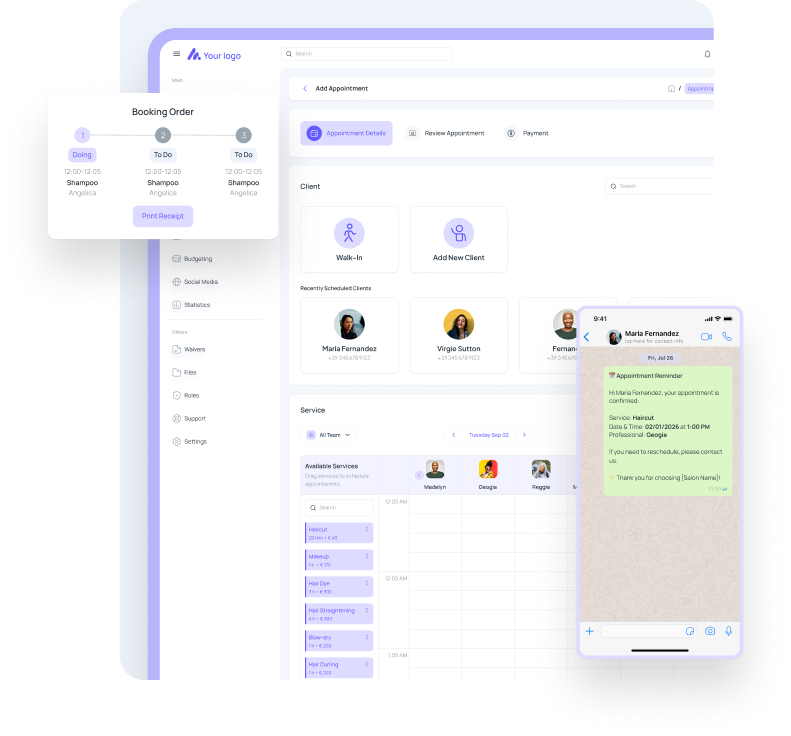
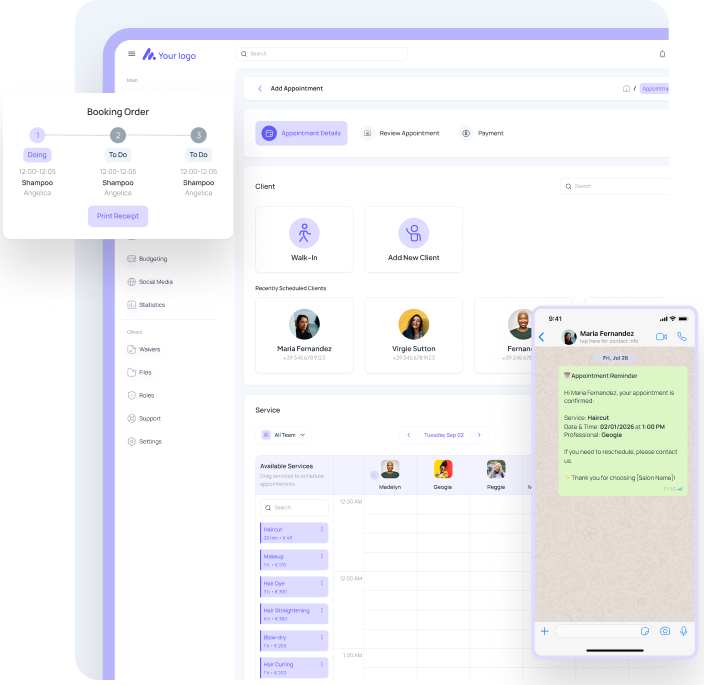
Update svg

diff --git a/components/hero-section.tsx b/components/hero-section.tsx
@@ -1,5 +1,4 @@
 "use client";
-
 import Image from "next/image";
 import { useEffect } from "react";
 import AOS from "aos";
@@ -15,7 +14,7 @@ export default function HeroSection() {
   }, []);
 
   return (
-    <section className="relative w-full min-h-auto flex flex-col items-center pt-32 md:pt-40 lg:pt-40 overflow-hidden bg-[#F8F9FD]">
+    <section className="relative w-full min-h-auto flex flex-col items-center pt-32 md:pt-40 lg:pt-40 overflow-hidden bg-white">
       {/* Background image */}
       <div className="absolute inset-0 z-0 w-full h-[85%] lg:h-[90%]">
         <Image
@@ -39,12 +38,11 @@ export default function HeroSection() {
           </span>{" "}
           Your Salon Business
         </h1>
-
         {/* Subheadline */}
         <p
           data-aos="fade-up"
           data-aos-delay="150"
-          className="text-base font-manrope md:text-[16px] max-w-4xl mb-8 leading-relaxed text-[#526B7A] font-medium"
+          className="text-base font-manrope md:text-[16px] max-w-4xl mb-8 leading-relaxed text-[#526B7A] font-medium z-10"
         >
           One platform — booking, inventory, forms, budgeting & social media —
           built to simplify and scale
@@ -54,10 +52,10 @@ export default function HeroSection() {
         <div
           data-aos="fade-up"
           data-aos-delay="300"
-          className="flex flex-col items-center gap-2 mb-4"
+          className="flex flex-col items-center gap-2 z-10"
         >
           <button
-            className="px-4 py-2.5 font-manrope bg-[#635BFF] text-white text-[14px] rounded-[8px]
+            className="px-4 py-2.5 font-manrope bg-[#635BFF] text-white text-[14px] rounded-[8px] 
             hover:bg-[#4B4ECA] transition-all duration-300 hover:-translate-y-0.5 active:scale-95 cursor-pointer"
           >
             Start Your Free Trial
@@ -72,19 +70,24 @@ export default function HeroSection() {
         <div
           data-aos="fade-up"
           data-aos-delay="450"
-          className="relative w-full max-w-5xl px-2 md:px-0 mt-8"
+          className="relative w-full max-w-5xl px-2 md:px-0 mt-10"
         >
-          {/* Glow */}
-          <div className="absolute -inset-10 bg-[#5F63F2]/10 blur-[100px] rounded-full opacity-40 pointer-events-none" />
-
           {/* Image */}
-          <div className="relative overflow-hidden">
+          <div className="relative">
             <Image
-              src="/images/Dashboard.png"
+              src="/images/dashboard.png"
               alt="Salon Management Dashboard"
               width={1200}
               height={750}
               className="w-full h-auto block"
+              priority
+            />
+            <Image
+              src="/images/effectDashboard.png"
+              alt="Salon Management Dashboard"
+              width={1200}
+              height={750}
+              className="w-full h-auto absolute left-1/2 top-[40%] -translate-x-1/2 -translate-y-1/2 transform scale-140 -z-10"
               priority
             />
           </div>

diff --git a/components/header.tsx b/components/header.tsx
@@ -4,6 +4,7 @@ import Link from "next/link";
 import Image from "next/image";
 import { Menu, X } from "lucide-react";
 import { useState } from "react";
+import LogoIcon from "./svg/LogoIcon";
 
 export default function Header() {
   const [isOpen, setIsOpen] = useState(false);
@@ -19,17 +20,21 @@ export default function Header() {
     <header className="absolute top-0 left-0 z-50 w-full bg-transparent pt-3">
       <div className="flex h-20 max-w-7xl mx-auto items-center justify-between px-4 md:px-8 lg:px-12">
         {/* Logo Section */}
-        <Link href="/" className="flex items-center gap-2">
-          <div className="relative w-28 h-8">
+        <Link href="/" className="flex items-center">
+          <div className="relative w-8 h-8 md:w-10 md:h-10">
             {/* OPTION FOR LOGO IMAGE */}
-            <Image
-              src="/images/BrandLogo.png"
+            {/* <Image
+              src="/images/logo.png"
               alt="Logo"
               fill
               className="object-contain "
               priority
-            />
+            /> */}
+            <LogoIcon />
           </div>
+          <span className="text-[18px] font-manrope font-bold text-[#635BFF] pb-1">
+            Your logo
+          </span>
         </Link>
 
         {/* Desktop Navigation */}
@@ -54,7 +59,7 @@ export default function Header() {
             Get Started
           </button>
           <button
-            className="px-4 font-manrope font-medium py-2.5 rounded-[8px] border-2 border-[#635BFF] 
+            className="px-4 font-manrope font-medium py-2 rounded-[8px] border-2 border-[#635BFF] 
           text-[#635BFF] text-sm  hover:bg-[#635BFF] hover:text-white transition-all duration-400 ease-in-out leading-6 cursor-pointer"
           >
             Login

diff --git a/components/svg/LogoIcon.tsx b/components/svg/LogoIcon.tsx
@@ -1,0 +1,31 @@
+import React from "react";
+
+export default function LogoIcon() {
+  return (
+    <svg
+      xmlns="http://www.w3.org/2000/svg"
+      width="30"
+      height="26"
+      viewBox="0 0 30 26"
+      fill="none"
+    >
+      <g clipPath="url(#clip0_2015_351936)">
+        <path
+          d="M0.432318 21.0005L11.5807 1.62889C12.1611 0.619246 13.2408 0 14.4083 0C16.5543 0 18.1199 2.03947 17.5531 4.10587L14.5838 14.9965L15.6028 15.5956L18.5181 10.6887C19.0917 9.71947 20.1445 9.13388 21.2714 9.15407C23.0665 9.181 24.4702 10.7089 24.3555 12.4926L23.8898 19.6005V19.6207C24.4297 19.2639 25.0775 19.0553 25.7726 19.0553C27.6487 19.0553 29.1738 20.5765 29.1738 22.4477C29.1738 24.3189 27.6487 25.8401 25.7726 25.8401C23.8966 25.8401 22.3714 24.3189 22.3714 22.4477C22.3714 22.1804 22.3782 22.1717 22.3984 22.0371V22.0102C22.4119 21.9227 22.4254 21.8419 22.4389 21.7544L23.1138 17.6418L22.3444 17.1302L18.0929 24.2179C17.4991 25.2074 16.4261 25.8199 15.2653 25.8199C13.1396 25.8199 11.574 23.8477 12.0531 21.788L14.577 10.9984L13.8009 10.7426L6.02001 24.2112C5.44639 25.2074 4.38014 25.8199 3.22616 25.8199C0.749493 25.8199 -0.802643 23.1477 0.432318 21.0005Z"
+          fill="#635BFF"
+        />
+      </g>
+
+      <defs>
+        <clipPath id="clip0_2015_351936">
+          <rect
+            width="29.1667"
+            height="25.8333"
+            fill="white"
+            transform="matrix(-1 0 0 1 29.1667 0)"
+          />
+        </clipPath>
+      </defs>
+    </svg>
+  );
+}

diff --git a/components/salonManagementSection.tsx b/components/salonManagementSection.tsx
@@ -229,9 +229,9 @@ export default function SalonManagementSection() {
     else swiperRef.current.slideNext();
   };
 
+  // ✅ Updated: swiper slideTo remove করা হয়েছে
   const handleTabClick = (index: number) => {
     setActive(index);
-    swiperRef.current?.slideTo(index, 500);
   };
 
   const activeTab = tabs[active];
@@ -286,9 +286,10 @@ export default function SalonManagementSection() {
                     onClick={() => handleTabClick(index)}
                     className={`w-full whitespace-nowrap px-6 py-4 rounded-[12px] text-[14px] md:text-[16px] font-semibold transition-all
                        duration-300 shadow-[0_24px_24px_-12px_rgba(0,0,0,0.05)] cursor-pointer font-manrope
-                      ${active === index
-                        ? "bg-[#635BFF] text-white shadow-md"
-                        : "bg-white text-gray-600 hover:border-indigo-300 hover:bg-gray-50"
+                      ${
+                        active === index
+                          ? "bg-[#635BFF] text-white shadow-md"
+                          : "bg-white text-gray-600 hover:border-indigo-300 hover:bg-gray-50"
                       }`}
                   >
                     {tab.title}

diff --git a/styles/globals.css b/styles/globals.css
@@ -126,3 +126,24 @@
 @theme {
   --font-manrope: var(--font-manrope);
 }
+
+.banner-shape {
+  width: 600px;
+  height: 250px;
+  background: #f3f6fb;
+  position: relative;
+  overflow: hidden;
+  border-top-left-radius: 12px;
+  border-top-right-radius: 12px;
+}
+
+.banner-shape::after {
+  content: "";
+  position: absolute;
+  bottom: -80px;
+  left: -120px;
+  width: 900px;
+  height: 300px;
+  background: #f3f6fb;
+  border-radius: 50%;
+}

diff --git a/components/stateSection.tsx b/components/stateSection.tsx
@@ -100,7 +100,7 @@ export default function StatsSection() {
         <div
           data-aos="fade-up"
           data-aos-delay="100"
-          className="w-full lg:w-1/4 text-center lg:text-left"
+          className="w-full lg:w-1/3 text-center lg:text-left"
         >
           <h2 className="text-3xl sm:text-4xl md:text-[44px] font-bold text-[#29343D] leading-tight">
             A unique story in <br className="hidden sm:block" />
